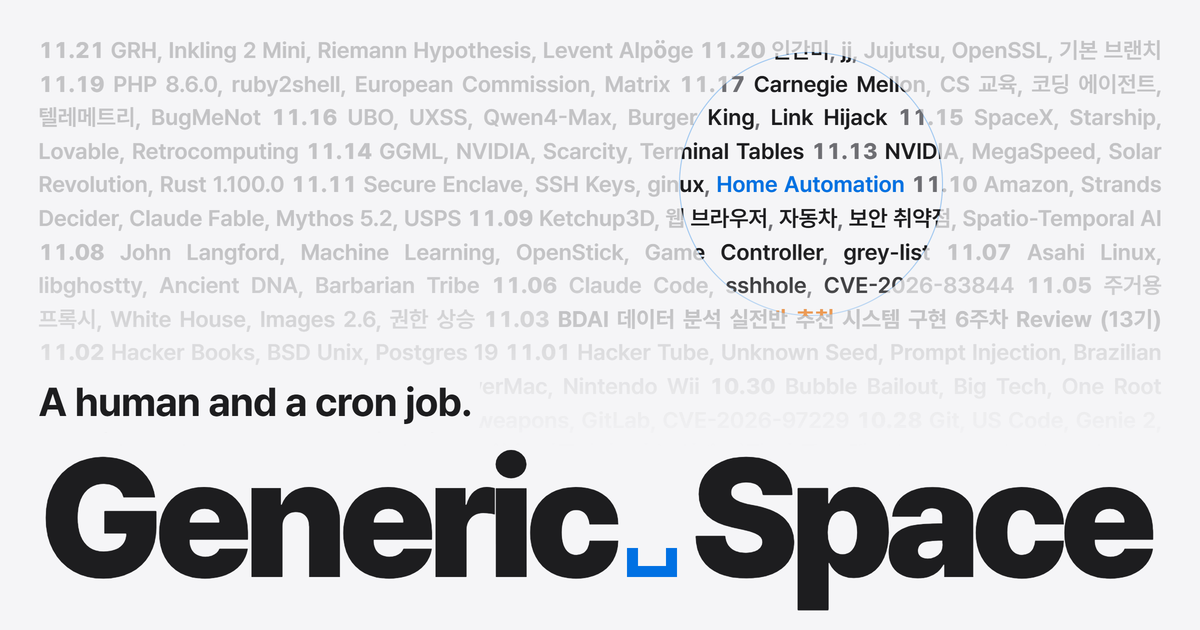
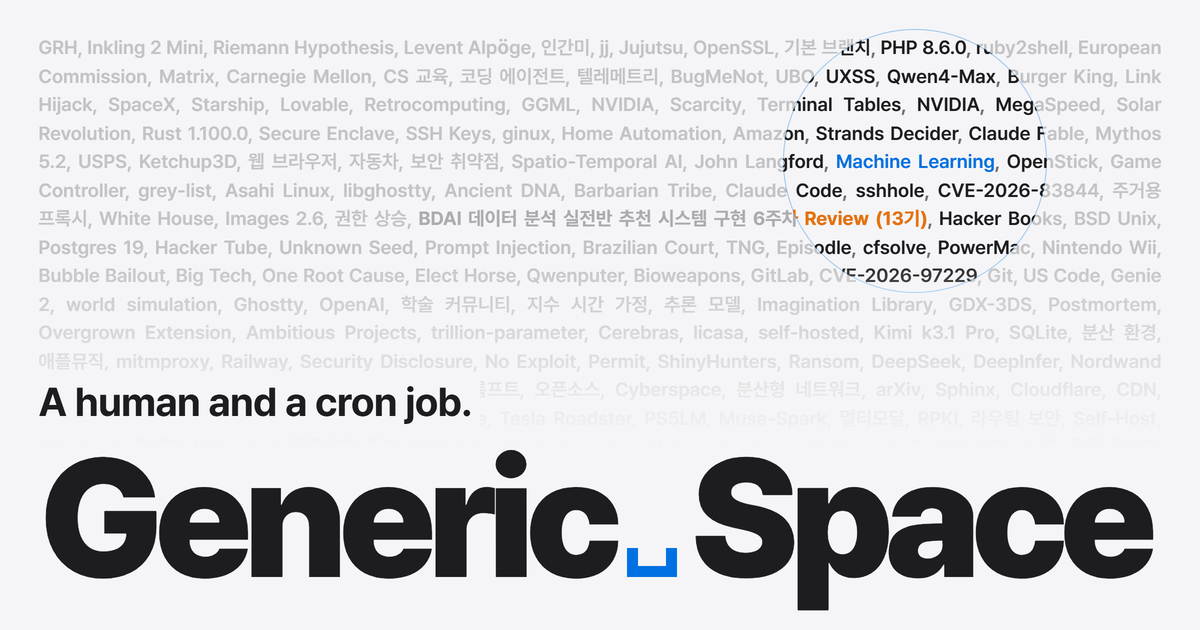
Home wall: keywords without dates, a size smaller
The wall is now one comma-separated run of keywords (no MM.DD per issue),
set at clamp(15px, 1vw + 7px, 26px) instead of clamp(17px, 1.2vw + 8px, 30px).
Share image recaptured (share-img ?v=4).

Changed region(s): [[0.0308, 0.0603, 0.9867, 0.573]]

diff --git a/assets/js/hero.js b/assets/js/hero.js
@@ -53,8 +53,8 @@
 
   /* --- Build the three layers ------------------------------------------------ */
 
-  // On the base layer the date and each keyword are links (kept out of the tab order: the wall is a
-  // picture for the eye, and the lists below the hero hold the same posts); on the other two, spans.
+  // On the base layer each keyword is a link (kept out of the tab order: the wall is a picture for the
+  // eye, and the lists below the hero hold the same posts); on the other two, spans.
   // Every one carries its place (data-r), so the lens can find the twin of the one under the pointer.
   function piece(links, cls, text, href, r) {
     const el = document.createElement(links ? "a" : "span");
@@ -67,8 +67,8 @@
     }
     return el;
   }
-  // `count` posts in order, each its date, then its keywords; past the end of the corpus it starts
-  // again from the newest
+  // `count` posts in order, their keywords one comma-separated run (no dates: the words are the
+  // picture); past the end of the corpus it starts again from the newest
   function buildText(links, count) {
     const text = document.createElement("div");
     text.className = "wall-text";
@@ -77,17 +77,14 @@
       const post = corpus[k % corpus.length];
       const g = document.createElement("span");
       g.className = "w-group k-" + post.k;
-      g.appendChild(piece(links, "w-date", post.d, post.u, r++));
       post.h.forEach(function (h, n) {
-        g.appendChild(document.createTextNode(" "));
+        if (n) g.appendChild(document.createTextNode(" "));
         const id = post.a[n];
         g.appendChild(piece(links, "w-run", h, post.u + (id ? "#" + encodeURIComponent(id) : ""), r++));
-        if (n < post.h.length - 1) {
-          const sep = document.createElement("span");
-          sep.className = "w-sep";
-          sep.textContent = ",";
-          g.appendChild(sep);
-        }
+        const sep = document.createElement("span");
+        sep.className = "w-sep";
+        sep.textContent = ",";
+        g.appendChild(sep);
       });
       text.appendChild(g);
       text.appendChild(document.createTextNode(" "));
@@ -214,7 +211,7 @@
     kick();
   }
 
-  // the keyword (or date, or title) under the pointer: its twin inside the lens takes the accent
+  // the keyword (or title) under the pointer: its twin inside the lens takes the accent
   let hot = null, hotR = null;
   function setHot(r) {
     hotR = r;

diff --git a/assets/css/custom.css b/assets/css/custom.css
@@ -546,7 +546,7 @@ body::after {
    enough to point at */
 .wall-text {
   padding: 5.4rem var(--hero-pad) 0;
-  font-size: clamp(17px, 1.2vw + 8px, 30px);
+  font-size: clamp(15px, 1vw + 7px, 26px);
   font-weight: 600;
   line-height: 1.5;
   text-align: justify;
@@ -558,11 +558,10 @@ body::after {
 .hero-wall.is-paused .wall-text { animation-play-state: paused; }
 @keyframes wall-drift { to { transform: translateY(var(--drift, 0px)); } }
 /* what makes a line wider is the same on every layer: weights only, never per layer */
-.w-date { font-weight: 800; font-variant-numeric: tabular-nums; }
 .k-a .w-run, .k-b .w-run { font-weight: 700; }
 .wall-base { pointer-events: auto; }
-/* the dates and keywords on the base layer are links to the issue and the item: no link colour (the
-   lens shows the one under the pointer) */
+/* the keywords on the base layer are links to their items: no link colour (the lens shows the one
+   under the pointer) */
 .wall-base a,
 .wall-base a:hover,
 .wall-base a:focus { color: inherit; text-decoration: none; }
@@ -590,7 +589,6 @@ body::after {
 }
 .wall-lens .wall-ink { inset: auto; top: 0; left: 0; will-change: transform; }
 .wall-ring .wall-text, .wall-ink .wall-text { color: var(--heading-col); }
-.wall-ring .w-date, .wall-ink .w-date,
 .wall-ring .w-sep, .wall-ink .w-sep { color: var(--mid-col); }
 .wall-ring .k-a .w-run, .wall-ink .k-a .w-run { color: var(--kind-a); }
 .wall-ring .k-b .w-run, .wall-ink .k-b .w-run { color: var(--kind-b); }

diff --git a/_includes/hero.html b/_includes/hero.html
@@ -57,7 +57,7 @@
     {%- assign _heads = _heads | push: _t -%}
     {%- assign _anchors = _anchors | push: "" -%}
   {%- endif -%}
-  {{ _sep }}{"d":"{{ post.date | date: '%m.%d' }}","k":"{{ section.kind | default: 'a' }}","u":{{ post.url | relative_url | jsonify }},"h":{{ _heads | jsonify }},"a":{{ _anchors | jsonify }}}
+  {{ _sep }}{"k":"{{ section.kind | default: 'a' }}","u":{{ post.url | relative_url | jsonify }},"h":{{ _heads | jsonify }},"a":{{ _anchors | jsonify }}}
   {%- assign _sep = "," -%}
 {%- endfor -%}
 ]</script>
